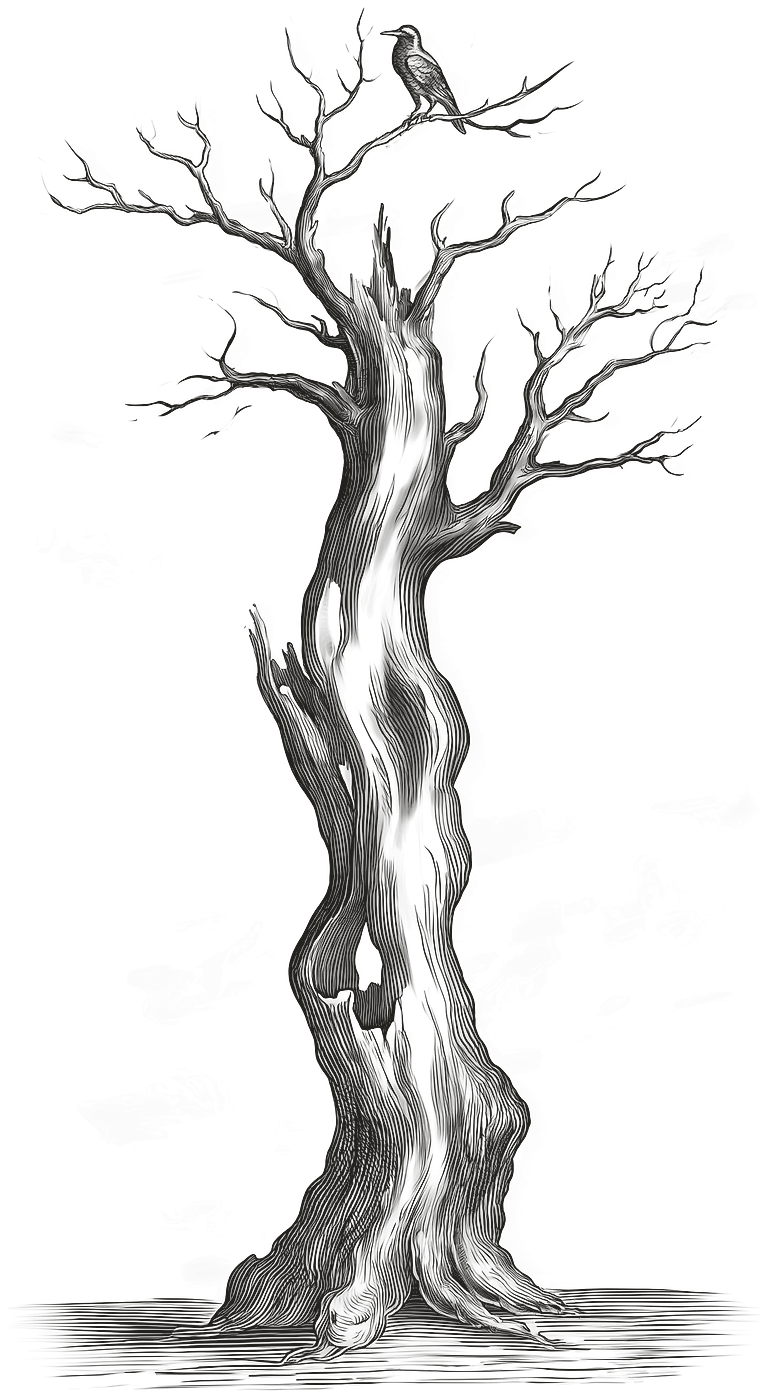
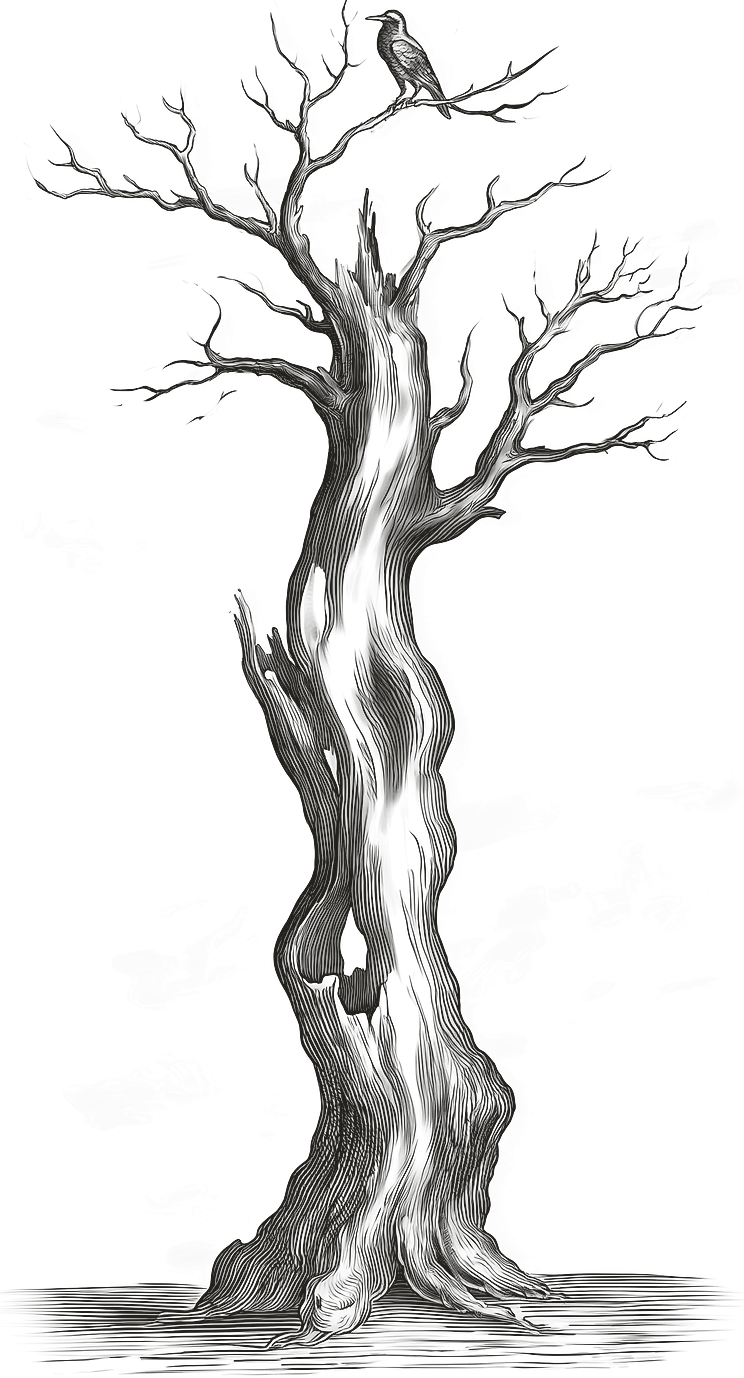
Rogner les planches sur ce qui SE VOIT, et poser le texte à dix pixels
Le texte flottait loin sous les ruines fumantes. La marge négative que
j'avais posée pour le rattraper corrigeait un symptôme : le vide n'aurait
jamais dû être dans le fichier.

Mesuré sur la cité ruinée : sous la dernière ligne de dessin, la planche
traînait 312 lignes ENTIÈREMENT vides, gardées par une douzaine de pixels
isolés à alpha 1 à 8, invisibles à l'œil. Le rognage sur le blanc ne les
voyait pas, et un rognage sur « alpha >= 1 » les aurait gardées tout
autant : un seul point suffit à ancrer la boîte.

Le script rogne donc sur ce qui SE VOIT, après détourage, où la mesure
est sans ambiguïté : un rang ne compte que s'il porte au moins trois
pixels à alpha 8 ou plus. La cité passe de 1 206 à 474 pixels de haut —
le ciel vide et le premier plan désert s'en vont, la fumée reste, et la
composition se resserre en un vrai panorama.

Le texte se pose maintenant à DIX pixels du dessin, sans marge négative
et sans avoir à deviner le vide.

⚠ Corollaire consigné : une marge négative sous une gravure est presque
toujours le symptôme d'une planche mal rognée, non un réglage de
composition. Celle du livre absent a été posée, ôtée, reposée puis
retirée en un jour, à chaque changement de planche — c'est le signe qu'on
traitait la conséquence.

Les six planches sont refaites, toutes au rapport 2, toutes sous 500 Ko.

Changed region(s): [[0.0309, 0.0, 0.9583, 0.9985]]

diff --git a/app/components/TexteBible.tsx b/app/components/TexteBible.tsx
@@ -606,13 +606,14 @@ export default function TexteBible({
                   chasserait la légende sous le pli. */}
               <img className="cs-ornement" src="/ornements/cite-ruinee.png" alt="" aria-hidden="true"
                 style={{ maxWidth: 'min(51rem, 96%)', maxHeight: 'calc(100dvh - 3.5rem - 9rem)', opacity: 0.92 }} />
-              {/* La marge NÉGATIVE revient, et pour la raison qui l'avait fait naître : la cité
-                  repose bas dans son cadre, dont le quart inférieur est un sol presque vide. Le
-                  texte vient ainsi se poser à la lisière du sol plutôt que loin sous la planche.
-                  ⚠ Elle avait dû être ôtée le temps d'une planche intermédiaire, qui descendait
-                  au ras des pierres : une marge négative se règle sur la COMPOSITION, elle ne se
-                  reconduit pas d'un dessin à l'autre. */}
-              <p style={{ fontFamily: "var(--font-source-serif), Georgia, serif", fontSize: '0.8125rem', fontStyle: 'italic', color: 'var(--cs-texte-doux)', textAlign: 'center', lineHeight: 1.65, margin: '-24px 0 0', maxWidth: '21.25rem' }}>
+              {/* DIX PIXELS, et plus aucune marge négative. Celle-ci corrigeait un vide qui
+                  n'aurait jamais dû être dans le fichier : la planche traînait 312 lignes
+                  transparentes sous les ruines, gardées par une douzaine de mouchetures à alpha 1.
+                  Le script rogne désormais sur ce qui se VOIT, la planche hugge son encre, et le
+                  texte se pose à quelques pixels du dessin sans qu'on ait à deviner le vide.
+                  ⚠ Corollaire : une marge négative sous une gravure est presque toujours le
+                  symptôme d'une planche mal rognée, non un réglage de composition. */}
+              <p style={{ fontFamily: "var(--font-source-serif), Georgia, serif", fontSize: '0.8125rem', fontStyle: 'italic', color: 'var(--cs-texte-doux)', textAlign: 'center', lineHeight: 1.65, margin: '10px 0 0', maxWidth: '21.25rem' }}>
                 La traduction <em style={{ fontStyle: 'normal', color: 'var(--cs-texte-second)' }}>{traductionLabel}</em> ne comporte pas ce livre.
               </p>
             </div>

diff --git a/AGENTS.md b/AGENTS.md
@@ -453,7 +453,7 @@ Le script porte désormais TOUTE la chaîne, source brute comprise : `node scrip
 
 ⚠ **Le POURTOUR de la source se rogne avant tout traitement.** Les planches de Midjourney portent un liseré sombre sur leur bord — 243 de luminance contre 247 à 249 pour le papier. Il passe sous le seuil de normalisation, devient de l'encre, et se voit comme une **barre noire** le long du bord gauche. Il empêche en outre le rognage des marges, un bord sombre l'arrêtant aussitôt : c'est lui qui laissait un ciel vide occuper le tiers de deux planches. Trente-deux pixels suffisent.
 
-⚠ **Une MARGE NÉGATIVE sous une gravure se règle sur la COMPOSITION, elle ne se reconduit pas d'un dessin à l'autre.** Celle du livre absent existait parce que la planche carrée laissait du blanc sous des ruines posées haut. Une planche intermédiaire descendait au ras des pierres et l'a fait ôter ; la cité ruinée repose de nouveau bas dans son cadre et l'a fait revenir. Trois dessins, trois réglages.
+⛔ **Une planche se rogne sur ce qui SE VOIT, et une marge négative sous une gravure est presque toujours le symptôme d'une planche mal rognée.** Le rognage sur le blanc laisse passer ce qui n'est blanc qu'à peu près, et le rognage sur `alpha >= 1` est pire encore : sous le dessin traînent des pixels ISOLÉS à alpha 1 à 8, invisibles à l'œil, dont un seul ancre la boîte. Mesuré sur la cité ruinée : **312 lignes de vide gardées par une douzaine de mouchetures**, et la légende se posait cent pixels sous le sol dessiné. Un rang ne compte donc que s'il porte au moins trois pixels à alpha 8 ou plus. ⚠ La marge négative du livre absent a été posée, ôtée, reposée puis retirée en un jour, à chaque changement de planche : c'est le signe qu'on corrigeait un symptôme. Une fois la planche rognée juste, dix pixels suffisent et ne dépendent plus du dessin.
 
 ⚠ **Et le corollaire de méthode, qui vaut au delà des ornements : une gravure se juge à l'ŒIL et à sa taille RÉELLE.** La charte le disait déjà des emblèmes de couverture, dont cinq sur neuf passaient pour autre chose une fois rendus à 90 px. Trois passes de correction ont été menées ici sur des mesures et des histogrammes sans que personne agrandisse un trait ; l'agrandissement au quadruple a donné la réponse en une seconde.
 
